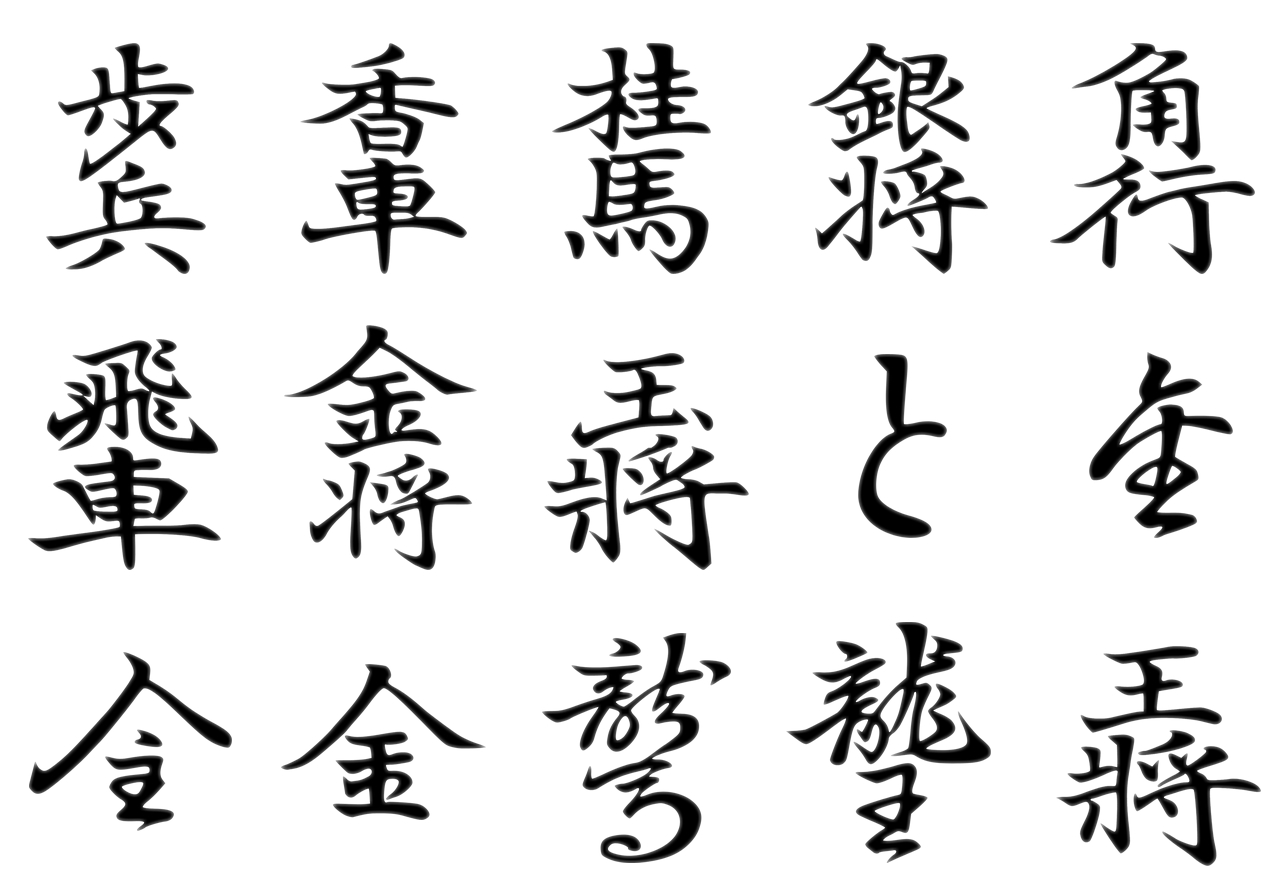
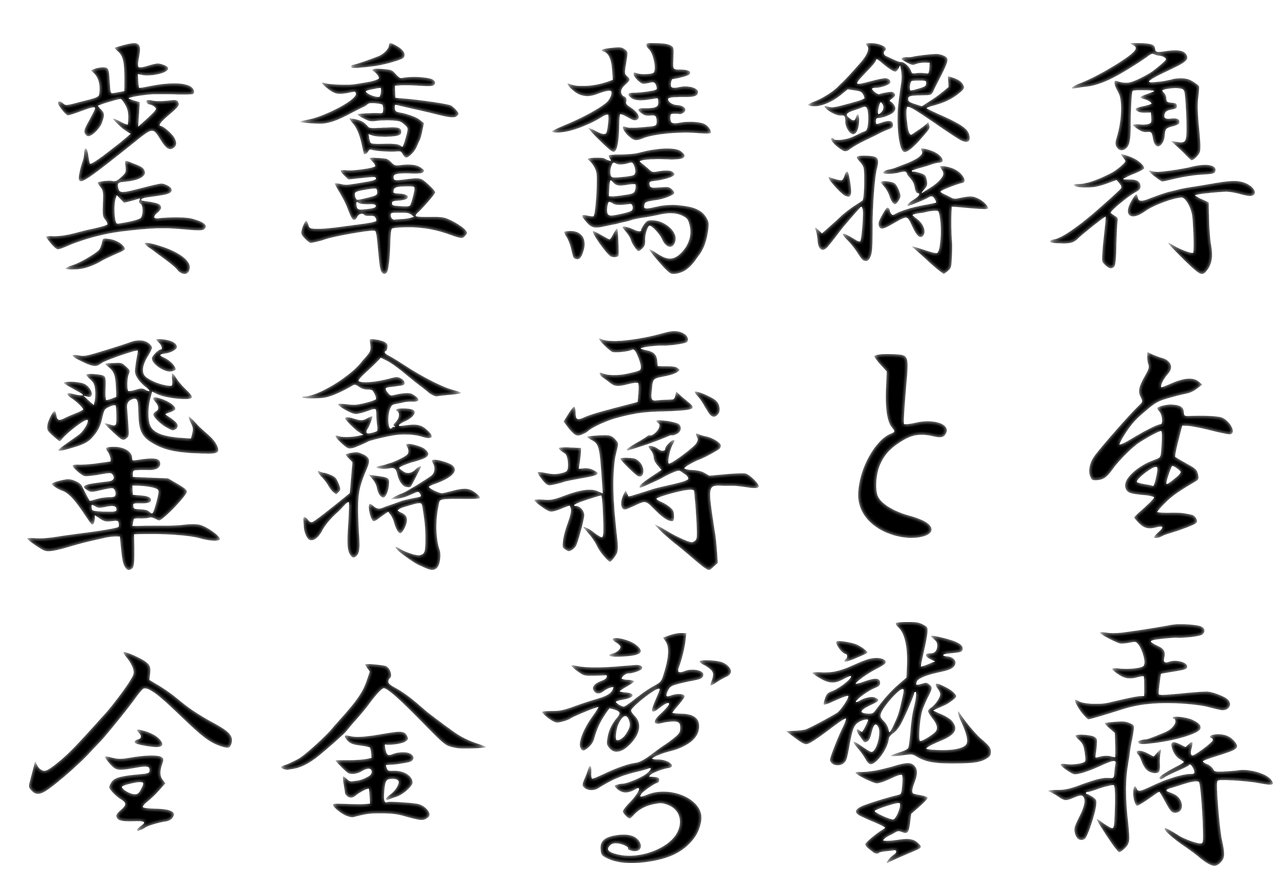
将棋3D駒：菱湖の金を戻し、王将・玉将を大きく、飛車を右へ
Claude-Session: https://claude.ai/code/session_01EiWRAWLV8eg6m15v5x8gee

diff --git a/atlas/lazy.js b/atlas/lazy.js
@@ -5,7 +5,7 @@
      AtlasLazy.has3D(id) / hasPlay(id) / hasRules(id) — known before loading; AtlasLazy.loaded(id) */
 (function () {
 'use strict';
-const G = {"reversi": ["games/reversi.js?v=40", "rules/reversi.js?v=14"], "shogi": ["models/shogi.js?v=60", "games/shogi-play.js?v=33", "games/shogi.js?v=14", "rules/shogi.js?v=21"], "chess": ["models/chess.js?v=16", "games/chess.js?v=15", "rules/chess.js?v=7"], "backgammon": ["models/backgammon.js?v=118", "games/backgammon.js?v=22", "rules/backgammon.js?v=11"], "gomoku": ["models/goban.js?v=14", "games/gomoku.js?v=12", "rules/gomoku.js?v=9"], "go": ["models/goban.js?v=14", "games/go.js?v=7", "rules/go.js?v=7"], "hex": ["models/goban.js?v=14", "models/hex.js?v=2", "games/hex.js?v=6", "rules/hex.js?v=6"], "tafl": ["games/tafl.js?v=15", "rules/tafl.js?v=7"], "xiangqi": ["models/xiangqi.js?v=4", "games/xiangqi.js?v=13", "rules/xiangqi.js?v=6"], "janggi": ["models/xiangqi.js?v=4", "models/janggi.js?v=3", "games/janggi.js?v=5", "rules/janggi.js?v=2"], "checkers": ["models/checkers.js?v=17", "games/checkers.js?v=8", "rules/checkers.js?v=4"], "ugolki": ["models/checkers.js?v=17", "models/ugolki.js?v=4", "games/ugolki.js?v=8", "rules/ugolki.js?v=8"], "morris": ["models/morris.js?v=7", "games/morris-pieces.js?v=2", "games/morris.js?v=7", "rules/morris.js?v=5"], "connect4": ["models/connect4.js?v=5", "games/connect4-tiles.js?v=1", "games/connect4.js?v=5", "rules/connect4.js?v=3"], "mancala": ["models/mancala.js?v=5", "games/mancala.js?v=10", "rules/mancala.js?v=4"], "dots": ["models/dots.js?v=4", "games/dots.js?v=9", "rules/dots.js?v=3"], "ur": ["models/ur-dice.js?v=2", "models/ur.js?v=4", "games/ur-kit.js?v=15", "games/ur.js?v=11", "rules/ur.js?v=16"], "fanorona": ["models/fanorona.js?v=4", "games/fanorona.js?v=6", "rules/fanorona.js?v=8"], "konane": ["models/konane.js?v=7", "games/konane.js?v=11", "rules/konane.js?v=5"], "amazons": ["models/amazons.js?v=7", "games/amazons.js?v=10", "rules/amazons.js?v=4"], "senet": ["models/ur-dice.js?v=2", "models/senet.js?v=10", "games/senet-kit.js?v=5", "games/senet.js?v=16", "rules/senet.js?v=8"], "agon": ["models/agon.js?v=4", "games/agon.js?v=11", "rules/agon.js?v=5"], "alquerque": ["models/alquerque.js?v=3", "rules/alquerque.js?v=6"], "ludo": ["../ludo/engine.js?v=3", "../ludo/house.js?v=7", "../ludo/board2d.js?v=7", "../ludo/board-art.js?v=3", "models/ludo.js?v=10", "games/ludo.js?v=28", "rules/ludo.js?v=3"], "carrom": ["../carrom/engine.js?v=6", "models/carrom.js?v=17", "games/carrom.js?v=37", "rules/carrom.js?v=8"], "crokinole": ["../carrom/engine.js?v=6", "games/carrom.js?v=37", "../crokinole/engine.js?v=3", "models/crokinole.js?v=12", "games/crokinole.js?v=14", "rules/crokinole.js?v=4"], "hockey": ["../hockey/engine.js?v=13", "models/hockey.js?v=8", "games/hockey.js?v=19", "rules/hockey.js?v=7"], "peg": ["../peg/engine.js?v=1", "../peg/i18n.js?v=6", "models/peg.js?v=6", "games/peg.js?v=1", "rules/peg.js?v=4"]};
+const G = {"reversi": ["games/reversi.js?v=40", "rules/reversi.js?v=14"], "shogi": ["models/shogi.js?v=61", "games/shogi-play.js?v=33", "games/shogi.js?v=14", "rules/shogi.js?v=21"], "chess": ["models/chess.js?v=16", "games/chess.js?v=15", "rules/chess.js?v=7"], "backgammon": ["models/backgammon.js?v=118", "games/backgammon.js?v=22", "rules/backgammon.js?v=11"], "gomoku": ["models/goban.js?v=14", "games/gomoku.js?v=12", "rules/gomoku.js?v=9"], "go": ["models/goban.js?v=14", "games/go.js?v=7", "rules/go.js?v=7"], "hex": ["models/goban.js?v=14", "models/hex.js?v=2", "games/hex.js?v=6", "rules/hex.js?v=6"], "tafl": ["games/tafl.js?v=15", "rules/tafl.js?v=7"], "xiangqi": ["models/xiangqi.js?v=4", "games/xiangqi.js?v=13", "rules/xiangqi.js?v=6"], "janggi": ["models/xiangqi.js?v=4", "models/janggi.js?v=3", "games/janggi.js?v=5", "rules/janggi.js?v=2"], "checkers": ["models/checkers.js?v=17", "games/checkers.js?v=8", "rules/checkers.js?v=4"], "ugolki": ["models/checkers.js?v=17", "models/ugolki.js?v=4", "games/ugolki.js?v=8", "rules/ugolki.js?v=8"], "morris": ["models/morris.js?v=7", "games/morris-pieces.js?v=2", "games/morris.js?v=7", "rules/morris.js?v=5"], "connect4": ["models/connect4.js?v=5", "games/connect4-tiles.js?v=1", "games/connect4.js?v=5", "rules/connect4.js?v=3"], "mancala": ["models/mancala.js?v=5", "games/mancala.js?v=10", "rules/mancala.js?v=4"], "dots": ["models/dots.js?v=4", "games/dots.js?v=9", "rules/dots.js?v=3"], "ur": ["models/ur-dice.js?v=2", "models/ur.js?v=4", "games/ur-kit.js?v=15", "games/ur.js?v=11", "rules/ur.js?v=16"], "fanorona": ["models/fanorona.js?v=4", "games/fanorona.js?v=6", "rules/fanorona.js?v=8"], "konane": ["models/konane.js?v=7", "games/konane.js?v=11", "rules/konane.js?v=5"], "amazons": ["models/amazons.js?v=7", "games/amazons.js?v=10", "rules/amazons.js?v=4"], "senet": ["models/ur-dice.js?v=2", "models/senet.js?v=10", "games/senet-kit.js?v=5", "games/senet.js?v=16", "rules/senet.js?v=8"], "agon": ["models/agon.js?v=4", "games/agon.js?v=11", "rules/agon.js?v=5"], "alquerque": ["models/alquerque.js?v=3", "rules/alquerque.js?v=6"], "ludo": ["../ludo/engine.js?v=3", "../ludo/house.js?v=7", "../ludo/board2d.js?v=7", "../ludo/board-art.js?v=3", "models/ludo.js?v=10", "games/ludo.js?v=28", "rules/ludo.js?v=3"], "carrom": ["../carrom/engine.js?v=6", "models/carrom.js?v=17", "games/carrom.js?v=37", "rules/carrom.js?v=8"], "crokinole": ["../carrom/engine.js?v=6", "games/carrom.js?v=37", "../crokinole/engine.js?v=3", "models/crokinole.js?v=12", "games/crokinole.js?v=14", "rules/crokinole.js?v=4"], "hockey": ["../hockey/engine.js?v=13", "models/hockey.js?v=8", "games/hockey.js?v=19", "rules/hockey.js?v=7"], "peg": ["../peg/engine.js?v=1", "../peg/i18n.js?v=6", "models/peg.js?v=6", "games/peg.js?v=1", "rules/peg.js?v=4"]};
 const F = {"reversi": {"t3": true, "play": true, "rules": true}, "shogi": {"t3": true, "play": true, "rules": true}, "chess": {"t3": true, "play": true, "rules": true}, "backgammon": {"t3": true, "play": true, "rules": true}, "gomoku": {"t3": true, "play": true, "rules": true}, "go": {"t3": true, "play": true, "rules": true}, "hex": {"t3": true, "play": true, "rules": true}, "tafl": {"t3": true, "play": true, "rules": true}, "xiangqi": {"t3": true, "play": true, "rules": true}, "janggi": {"t3": true, "play": true, "rules": true}, "checkers": {"t3": true, "play": true, "rules": true}, "ugolki": {"t3": true, "play": true, "rules": true}, "morris": {"t3": true, "play": true, "rules": true}, "connect4": {"t3": true, "play": true, "rules": true}, "mancala": {"t3": true, "play": true, "rules": true}, "dots": {"t3": true, "play": true, "rules": true}, "ur": {"t3": true, "play": true, "rules": true}, "fanorona": {"t3": true, "play": true, "rules": true}, "konane": {"t3": true, "play": true, "rules": true}, "amazons": {"t3": true, "play": true, "rules": true}, "senet": {"t3": true, "play": true, "rules": true}, "agon": {"t3": true, "play": true, "rules": true}, "alquerque": {"t3": true, "play": false, "rules": true}, "ludo": {"t3": true, "play": true, "rules": true}, "carrom": {"t3": true, "play": true, "rules": true}, "crokinole": {"t3": true, "play": true, "rules": true}, "hockey": {"t3": true, "play": true, "rules": true}, "peg": {"t3": true, "play": true, "rules": true}};
 const done = new Set(), loading = new Map(), ok = new Set();
 function load(src) {

diff --git a/dots/index.html b/dots/index.html
@@ -2299,7 +2299,7 @@ document.querySelector('#rsResume').onclick = () => { document.querySelector('#r
   const f = document.createElement('link'); f.rel = 'stylesheet'; f.href = 'https://fonts.googleapis.com/css2?family=RocknRoll+One&family=Zen+Maru+Gothic:wght@500;700;900&family=Fredoka:wght@600;700&family=Kalam:wght@400;700&family=Zen+Kurenaido&family=Nanum+Pen+Script&family=Long+Cang&family=Aref+Ruqaa:wght@700&display=swap'; document.head.appendChild(f);   // (Kalam … Aref Ruqaa: the handwritten box initials and tally on the notebook page)
   const load = src => new Promise((res, rej) => { const s = document.createElement('script'); s.src = src; s.onload = res; s.onerror = rej; document.body.appendChild(s); });
   if (window.AtlasLoading) { AtlasLoading.show(); setTimeout(() => AtlasLoading.hide(), 12000); }   // safety net
-  load('https://cdnjs.cloudflare.com/ajax/libs/three.js/r128/three.min.js').then(() => load('../atlas/img/tex/baked.js?v=1')).then(() => load('../atlas/table3d.js?v=152')).then(() => load('../atlas/tables3d.js?v=80')).then(() => load('../atlas/skin/common.js?v=71')).then(() => load('../atlas/models/dots.js?v=3l14')).then(() => load('../atlas/skin/dots.js?v=7l14'))
+  load('https://cdnjs.cloudflare.com/ajax/libs/three.js/r128/three.min.js').then(() => load('../atlas/img/tex/baked.js?v=1')).then(() => load('../atlas/table3d.js?v=152')).then(() => load('../atlas/tables3d.js?v=81')).then(() => load('../atlas/skin/common.js?v=71')).then(() => load('../atlas/models/dots.js?v=3l14')).then(() => load('../atlas/skin/dots.js?v=7l14'))
     .catch(() => { document.documentElement.classList.remove('atlas-skin'); if (window.AtlasLoading) AtlasLoading.hide(); });
 })();
 </script>

diff --git a/ur/index.html b/ur/index.html
@@ -1029,7 +1029,7 @@ html:not([lang=ja]):not([lang=zh]):not([lang="zh-TW"]):not([lang=ko]) .result-bi
   const f = document.createElement('link'); f.rel = 'stylesheet'; f.href = 'https://fonts.googleapis.com/css2?family=RocknRoll+One&family=Zen+Maru+Gothic:wght@500;700;900&family=Fredoka:wght@600;700&display=swap'; document.head.appendChild(f);
   const load = src => new Promise((res, rej) => { const s = document.createElement('script'); s.src = src; s.onload = res; s.onerror = rej; document.body.appendChild(s); });
   if (window.AtlasLoading) { AtlasLoading.show(); setTimeout(() => AtlasLoading.hide(), 12000); }   // safety net
-  load('https://cdnjs.cloudflare.com/ajax/libs/three.js/r128/three.min.js').then(() => load('../atlas/img/tex/baked.js?v=1')).then(() => load('../atlas/table3d.js?v=152')).then(() => load('../atlas/tables3d.js?v=80')).then(() => load('../atlas/skin/common.js?v=71')).then(() => load('../atlas/models/ur-dice.js?v=2l14')).then(() => load('../atlas/models/ur.js?v=3l14')).then(() => load('../atlas/skin/ur.js?v=14l14'))
+  load('https://cdnjs.cloudflare.com/ajax/libs/three.js/r128/three.min.js').then(() => load('../atlas/img/tex/baked.js?v=1')).then(() => load('../atlas/table3d.js?v=152')).then(() => load('../atlas/tables3d.js?v=81')).then(() => load('../atlas/skin/common.js?v=71')).then(() => load('../atlas/models/ur-dice.js?v=2l14')).then(() => load('../atlas/models/ur.js?v=3l14')).then(() => load('../atlas/skin/ur.js?v=14l14'))
     .catch(() => { const u = new URL(location.href); u.searchParams.delete('skin'); location.replace(u.href); });   // (the 3D files are missing: the plain 2D page)
 })();
 </script>

diff --git a/connect4/index.html b/connect4/index.html
@@ -3390,7 +3390,7 @@ document.addEventListener('keydown', e => {
   const f = document.createElement('link'); f.rel = 'stylesheet'; f.href = 'https://fonts.googleapis.com/css2?family=RocknRoll+One&family=Zen+Maru+Gothic:wght@500;700;900&family=Fredoka:wght@600;700&display=swap'; document.head.appendChild(f);
   const load = src => new Promise((res, rej) => { const s = document.createElement('script'); s.src = src; s.onload = res; s.onerror = rej; document.body.appendChild(s); });
   if (window.AtlasLoading) { AtlasLoading.show(); setTimeout(() => AtlasLoading.hide(), 12000); }   // safety net
-  load('https://cdnjs.cloudflare.com/ajax/libs/three.js/r128/three.min.js').then(() => load('../atlas/img/tex/baked.js?v=1')).then(() => load('../atlas/table3d.js?v=152')).then(() => load('../atlas/tables3d.js?v=80')).then(() => load('../atlas/skin/common.js?v=71')).then(() => load('../atlas/models/connect4.js?v=5l14')).then(() => load('../atlas/games/connect4-tiles.js?v=1l14')).then(() => load('../atlas/skin/connect4.js?v=6l14-aim'))
+  load('https://cdnjs.cloudflare.com/ajax/libs/three.js/r128/three.min.js').then(() => load('../atlas/img/tex/baked.js?v=1')).then(() => load('../atlas/table3d.js?v=152')).then(() => load('../atlas/tables3d.js?v=81')).then(() => load('../atlas/skin/common.js?v=71')).then(() => load('../atlas/models/connect4.js?v=5l14')).then(() => load('../atlas/games/connect4-tiles.js?v=1l14')).then(() => load('../atlas/skin/connect4.js?v=6l14-aim'))
     .catch(() => { document.documentElement.classList.remove('atlas-skin'); if (window.AtlasLoading) AtlasLoading.hide(); });
 })();
 </script>

diff --git a/morris/index.html b/morris/index.html
@@ -3897,7 +3897,7 @@ window.addEventListener('resize', () => renderFx());
   const f = document.createElement('link'); f.rel = 'stylesheet'; f.href = 'https://fonts.googleapis.com/css2?family=RocknRoll+One&family=Zen+Maru+Gothic:wght@500;700;900&family=Fredoka:wght@600;700&display=swap'; document.head.appendChild(f);
   const load = src => new Promise((res, rej) => { const s = document.createElement('script'); s.src = src; s.onload = res; s.onerror = rej; document.body.appendChild(s); });
   if (window.AtlasLoading) { AtlasLoading.show(); setTimeout(() => AtlasLoading.hide(), 12000); }   // safety net
-  load('https://cdnjs.cloudflare.com/ajax/libs/three.js/r128/three.min.js').then(() => load('../atlas/img/tex/baked.js?v=1')).then(() => load('../atlas/table3d.js?v=152')).then(() => load('../atlas/tables3d.js?v=80')).then(() => load('../atlas/skin/common.js?v=71')).then(() => load('../atlas/models/morris.js?v=6l14')).then(() => load('../atlas/games/morris-pieces.js?v=2l14')).then(() => load('../atlas/skin/morris.js?v=6l15'))
+  load('https://cdnjs.cloudflare.com/ajax/libs/three.js/r128/three.min.js').then(() => load('../atlas/img/tex/baked.js?v=1')).then(() => load('../atlas/table3d.js?v=152')).then(() => load('../atlas/tables3d.js?v=81')).then(() => load('../atlas/skin/common.js?v=71')).then(() => load('../atlas/models/morris.js?v=6l14')).then(() => load('../atlas/games/morris-pieces.js?v=2l14')).then(() => load('../atlas/skin/morris.js?v=6l15'))
     .catch(() => { document.documentElement.classList.remove('atlas-skin'); if (window.AtlasLoading) AtlasLoading.hide(); });
 })();
 </script>

diff --git a/senet/index.html b/senet/index.html
@@ -1030,7 +1030,7 @@ html:not([lang=ja]):not([lang=zh]):not([lang=zh-TW]):not([lang=ko]) .result-big{
   const f = document.createElement('link'); f.rel = 'stylesheet'; f.href = 'https://fonts.googleapis.com/css2?family=RocknRoll+One&family=Zen+Maru+Gothic:wght@500;700;900&family=Fredoka:wght@600;700&display=swap'; document.head.appendChild(f);
   const load = src => new Promise((res, rej) => { const s = document.createElement('script'); s.src = src; s.onload = res; s.onerror = rej; document.body.appendChild(s); });
   if (window.AtlasLoading) { AtlasLoading.show(); setTimeout(() => AtlasLoading.hide(), 12000); }   // safety net
-  load('https://cdnjs.cloudflare.com/ajax/libs/three.js/r128/three.min.js').then(() => load('../atlas/img/tex/baked.js?v=1')).then(() => load('../atlas/table3d.js?v=152')).then(() => load('../atlas/tables3d.js?v=80')).then(() => load('../atlas/skin/common.js?v=71')).then(() => load('../atlas/models/senet.js?v=10l14')).then(() => load('../atlas/skin/senet.js?v=10l14'))
+  load('https://cdnjs.cloudflare.com/ajax/libs/three.js/r128/three.min.js').then(() => load('../atlas/img/tex/baked.js?v=1')).then(() => load('../atlas/table3d.js?v=152')).then(() => load('../atlas/tables3d.js?v=81')).then(() => load('../atlas/skin/common.js?v=71')).then(() => load('../atlas/models/senet.js?v=10l14')).then(() => load('../atlas/skin/senet.js?v=10l14'))
     .catch(() => { const u = new URL(location.href); u.searchParams.delete('skin'); location.replace(u.href); });   // (the 3D files are missing: the plain 2D page)
 })();
 </script>

diff --git a/fanorona/index.html b/fanorona/index.html
@@ -1687,7 +1687,7 @@ body.lt-on .reserve .onb.on{border-color:var(--accent);box-shadow:0 0 0 1px var(
   const f = document.createElement('link'); f.rel = 'stylesheet'; f.href = 'https://fonts.googleapis.com/css2?family=RocknRoll+One&family=Zen+Maru+Gothic:wght@500;700;900&family=Fredoka:wght@600;700&display=swap'; document.head.appendChild(f);
   const load = src => new Promise((res, rej) => { const s = document.createElement('script'); s.src = src; s.onload = res; s.onerror = rej; document.body.appendChild(s); });
   if (window.AtlasLoading) { AtlasLoading.show(); setTimeout(() => AtlasLoading.hide(), 12000); }   // safety net
-  load('https://cdnjs.cloudflare.com/ajax/libs/three.js/r128/three.min.js').then(() => load('../atlas/img/tex/baked.js?v=1')).then(() => load('../atlas/table3d.js?v=152')).then(() => load('../atlas/tables3d.js?v=80')).then(() => load('../atlas/skin/common.js?v=71')).then(() => load('../atlas/models/fanorona.js?v=3l14')).then(() => load('../atlas/skin/fanorona.js?v=6l14'))
+  load('https://cdnjs.cloudflare.com/ajax/libs/three.js/r128/three.min.js').then(() => load('../atlas/img/tex/baked.js?v=1')).then(() => load('../atlas/table3d.js?v=152')).then(() => load('../atlas/tables3d.js?v=81')).then(() => load('../atlas/skin/common.js?v=71')).then(() => load('../atlas/models/fanorona.js?v=3l14')).then(() => load('../atlas/skin/fanorona.js?v=6l14'))
     .catch(() => { document.documentElement.classList.remove('atlas-skin'); if (window.AtlasLoading) AtlasLoading.hide(); });
 })();
 </script>

diff --git a/mancala/index.html b/mancala/index.html
@@ -1586,7 +1586,7 @@ html[data-sk=ocean] .seed{box-shadow:0 calc(var(--u) * .025) calc(var(--u) * .04
   const f = document.createElement('link'); f.rel = 'stylesheet'; f.href = 'https://fonts.googleapis.com/css2?family=RocknRoll+One&family=Zen+Maru+Gothic:wght@500;700;900&family=Fredoka:wght@600;700&display=swap'; document.head.appendChild(f);
   const load = src => new Promise((res, rej) => { const s = document.createElement('script'); s.src = src; s.onload = res; s.onerror = rej; document.body.appendChild(s); });
   if (window.AtlasLoading) { AtlasLoading.show(); setTimeout(() => AtlasLoading.hide(), 12000); }   // safety net
-  load('https://cdnjs.cloudflare.com/ajax/libs/three.js/r128/three.min.js').then(() => load('../atlas/img/tex/baked.js?v=1')).then(() => load('../atlas/table3d.js?v=152')).then(() => load('../atlas/tables3d.js?v=80')).then(() => load('../atlas/skin/common.js?v=71')).then(() => load('../atlas/models/mancala.js?v=4l14')).then(() => load('../atlas/skin/mancala.js?v=10l14'))
+  load('https://cdnjs.cloudflare.com/ajax/libs/three.js/r128/three.min.js').then(() => load('../atlas/img/tex/baked.js?v=1')).then(() => load('../atlas/table3d.js?v=152')).then(() => load('../atlas/tables3d.js?v=81')).then(() => load('../atlas/skin/common.js?v=71')).then(() => load('../atlas/models/mancala.js?v=4l14')).then(() => load('../atlas/skin/mancala.js?v=10l14'))
     .catch(() => { document.documentElement.classList.remove('atlas-skin'); if (window.AtlasLoading) AtlasLoading.hide(); });
 })();
 </script>

diff --git a/gomoku/index.html b/gomoku/index.html
@@ -1445,7 +1445,7 @@ body.skin-ink .st.b{background:radial-gradient(circle at 34% 28%,#8a8f98 0%,#3c4
   const f = document.createElement('link'); f.rel = 'stylesheet'; f.href = 'https://fonts.googleapis.com/css2?family=RocknRoll+One&family=Zen+Maru+Gothic:wght@500;700;900&family=Fredoka:wght@600;700&display=swap'; document.head.appendChild(f);
   const load = src => new Promise((res, rej) => { const s = document.createElement('script'); s.src = src; s.onload = res; s.onerror = rej; document.body.appendChild(s); });
   if (window.AtlasLoading) { AtlasLoading.show(); setTimeout(() => AtlasLoading.hide(), 12000); }   // safety net
-  load('https://cdnjs.cloudflare.com/ajax/libs/three.js/r128/three.min.js').then(() => load('../atlas/img/tex/baked.js?v=1')).then(() => load('../atlas/table3d.js?v=152')).then(() => load('../atlas/tables3d.js?v=80')).then(() => load('../atlas/skin/common.js?v=71')).then(() => load('../atlas/models/goban.js?v=11l14')).then(() => load('../atlas/skin/gomoku.js?v=4l14'))
+  load('https://cdnjs.cloudflare.com/ajax/libs/three.js/r128/three.min.js').then(() => load('../atlas/img/tex/baked.js?v=1')).then(() => load('../atlas/table3d.js?v=152')).then(() => load('../atlas/tables3d.js?v=81')).then(() => load('../atlas/skin/common.js?v=71')).then(() => load('../atlas/models/goban.js?v=11l14')).then(() => load('../atlas/skin/gomoku.js?v=4l14'))
     .catch(() => { document.documentElement.classList.remove('atlas-skin'); if (window.AtlasLoading) AtlasLoading.hide(); });
 })();
 </script>

diff --git a/ugolki/index.html b/ugolki/index.html
@@ -1393,7 +1393,7 @@ html:is([data-bd=gzhel],[data-bd=birch]) .reserve .rsv-plate .rsv-w:not(.hot) b{
   const f = document.createElement('link'); f.rel = 'stylesheet'; f.href = 'https://fonts.googleapis.com/css2?family=RocknRoll+One&family=Zen+Maru+Gothic:wght@500;700;900&family=Fredoka:wght@600;700&display=swap'; document.head.appendChild(f);
   const load = src => new Promise((res, rej) => { const s = document.createElement('script'); s.src = src; s.onload = res; s.onerror = rej; document.body.appendChild(s); });
   if (window.AtlasLoading) { AtlasLoading.show(); setTimeout(() => AtlasLoading.hide(), 12000); }   // safety net
-  load('https://cdnjs.cloudflare.com/ajax/libs/three.js/r128/three.min.js').then(() => load('../atlas/img/tex/baked.js?v=1')).then(() => load('../atlas/table3d.js?v=152')).then(() => load('../atlas/tables3d.js?v=80')).then(() => load('../atlas/skin/common.js?v=71')).then(() => load('../atlas/models/ugolki.js?v=4l14')).then(() => load('../atlas/skin/ugolki.js?v=2l14'))
+  load('https://cdnjs.cloudflare.com/ajax/libs/three.js/r128/three.min.js').then(() => load('../atlas/img/tex/baked.js?v=1')).then(() => load('../atlas/table3d.js?v=152')).then(() => load('../atlas/tables3d.js?v=81')).then(() => load('../atlas/skin/common.js?v=71')).then(() => load('../atlas/models/ugolki.js?v=4l14')).then(() => load('../atlas/skin/ugolki.js?v=2l14'))
     .catch(() => { document.documentElement.classList.remove('atlas-skin'); if (window.AtlasLoading) AtlasLoading.hide(); });
 })();
 </script>

diff --git a/alquerque/index.html b/alquerque/index.html
@@ -1689,7 +1689,7 @@ window.OL_VARIANTS = ['alq', 'alqf']; window.OL_DB_PREFIX = 'alq/';
   const f = document.createElement('link'); f.rel = 'stylesheet'; f.href = 'https://fonts.googleapis.com/css2?family=RocknRoll+One&family=Zen+Maru+Gothic:wght@500;700;900&family=Fredoka:wght@600;700&display=swap'; document.head.appendChild(f);
   const load = src => new Promise((res, rej) => { const s = document.createElement('script'); s.src = src; s.onload = res; s.onerror = rej; document.body.appendChild(s); });
   if (window.AtlasLoading) { AtlasLoading.show(); setTimeout(() => AtlasLoading.hide(), 12000); }   // safety net
-  load('https://cdnjs.cloudflare.com/ajax/libs/three.js/r128/three.min.js').then(() => load('../atlas/img/tex/baked.js?v=1')).then(() => load('../atlas/table3d.js?v=152')).then(() => load('../atlas/tables3d.js?v=80')).then(() => load('../atlas/skin/common.js?v=71')).then(() => load('../atlas/models/alquerque.js?v=3l14')).then(() => load('../atlas/skin/fanorona.js?v=6l14'))
+  load('https://cdnjs.cloudflare.com/ajax/libs/three.js/r128/three.min.js').then(() => load('../atlas/img/tex/baked.js?v=1')).then(() => load('../atlas/table3d.js?v=152')).then(() => load('../atlas/tables3d.js?v=81')).then(() => load('../atlas/skin/common.js?v=71')).then(() => load('../atlas/models/alquerque.js?v=3l14')).then(() => load('../atlas/skin/fanorona.js?v=6l14'))
     .catch(() => { document.documentElement.classList.remove('atlas-skin'); if (window.AtlasLoading) AtlasLoading.hide(); });
 })();
 </script>

diff --git a/chess/index.html b/chess/index.html
@@ -1589,7 +1589,7 @@ body.in-online .coach,body.in-online #btnMistakes{display:none!important}
   const f = document.createElement('link'); f.rel = 'stylesheet'; f.href = 'https://fonts.googleapis.com/css2?family=RocknRoll+One&family=Zen+Maru+Gothic:wght@500;700;900&family=Fredoka:wght@600;700&display=swap'; document.head.appendChild(f);
   const load = src => new Promise((res, rej) => { const s = document.createElement('script'); s.src = src; s.onload = res; s.onerror = rej; document.body.appendChild(s); });
   if (window.AtlasLoading) { AtlasLoading.show(); setTimeout(() => AtlasLoading.hide(), 12000); }   // safety net
-  load('https://cdnjs.cloudflare.com/ajax/libs/three.js/r128/three.min.js').then(() => load('../atlas/img/tex/baked.js?v=1')).then(() => load('../atlas/table3d.js?v=152')).then(() => load('../atlas/tables3d.js?v=80')).then(() => load('../atlas/skin/common.js?v=71')).then(() => load('../atlas/models/chess.js?v=16l14')).then(() => load('../atlas/skin/chess.js?v=11l14'))
+  load('https://cdnjs.cloudflare.com/ajax/libs/three.js/r128/three.min.js').then(() => load('../atlas/img/tex/baked.js?v=1')).then(() => load('../atlas/table3d.js?v=152')).then(() => load('../atlas/tables3d.js?v=81')).then(() => load('../atlas/skin/common.js?v=71')).then(() => load('../atlas/models/chess.js?v=16l14')).then(() => load('../atlas/skin/chess.js?v=11l14'))
     .catch(() => { document.documentElement.classList.remove('atlas-skin'); if (window.AtlasLoading) AtlasLoading.hide(); });
 })();
 </script>
